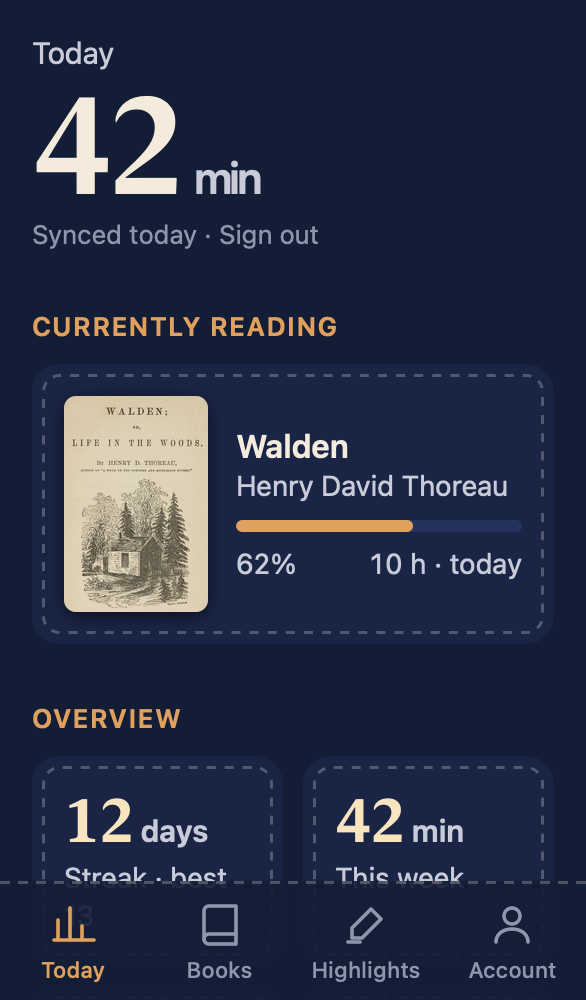
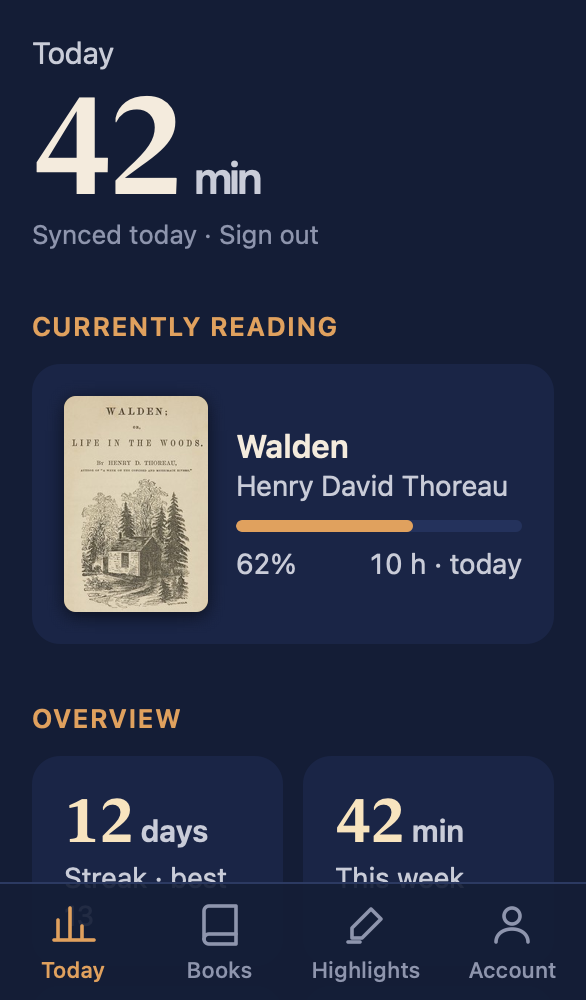
Web app: drop the dashed stitch edges; one set of threads everywhere
The dashed running stitch on cards, tiles, buttons and the tab bar is gone from
the web app, sign in, account and admin pages (the upload drop zone keeps its
dashed outline).

The calendar uses the widget threads everywhere: tan to cream cross stitch on
night blue cloth, brighter for longer reading. The web app and landing page
calendars drop the linen and wooden frame to match.

diff --git a/docs/index.html b/docs/index.html
@@ -46,7 +46,6 @@
   --tan: #E0A15E;
   --tan-hover: #EAB173;
   --cream: #F8E4BF;
-  --linen: #EDE3D0;
   --ink: #1C2A50;
 
   --s-25: 2px; --s-50: 4px; --s-75: 8px; --s-100: 12px; --s-200: 16px; --s-300: 24px;
@@ -200,9 +199,8 @@ p { margin: 0; text-wrap: pretty; }
 @media (min-width: 768px) { .h2 { font-size: 3rem; line-height: 1; } }
 .lead { margin-top: var(--s-200); color: var(--muted); font-size: 1.125rem; line-height: 1.75rem; max-width: 600px; }
 
-/* Sampler: the reading calendar, cross stitched on linen in a wooden frame */
-.frame { margin-top: var(--s-600); border-radius: 24px; padding: var(--s-75); background: #B9844F; box-shadow: 0 24px 64px rgba(0, 0, 0, 0.45), inset 0 0 0 1px rgba(255, 255, 255, 0.12); }
-.frame .linen { border-radius: 16px; overflow: hidden; background: var(--linen); }
+/* Sampler: the reading calendar, cross stitched on night blue cloth */
+.frame { margin-top: var(--s-600); border-radius: 24px; overflow: hidden; background: var(--cloth); box-shadow: 0 24px 64px rgba(0, 0, 0, 0.35); }
 .sampler { display: block; width: 100%; aspect-ratio: 57 / 29; }
 .sampler.no-gl { display: none; }
 @media (max-width: 639px) { .sampler { aspect-ratio: 31 / 31; } }
@@ -396,14 +394,14 @@ footer { padding: var(--s-600) 0 var(--s-700); color: var(--faint); font-size: .
       <div class="reveal">
         <span class="kicker">Your year</span>
         <h2 class="h2" id="y-title">Half a year of reading, one stitch per day</h2>
-        <p class="lead">Every day you open a book on your Kobo becomes a square on your calendar. The deeper the blue, the longer you read.</p>
+        <p class="lead">Every day you open a book on your Kobo becomes a square on your calendar. The brighter the thread, the longer you read.</p>
       </div>
       <div class="frame reveal">
         <div class="linen"><canvas class="sampler" id="sampler" role="img" aria-label="A 26 week reading calendar in cross stitch, with a 12 day streak"></canvas></div>
       </div>
       <div class="legend reveal">
         <span id="sampler-caption">Days read in the last 26 weeks</span>
-        <span class="swatches">Less <i style="background:#EDE3D0"></i><i style="background:#9CC1EE"></i><i style="background:#5B95E0"></i><i style="background:#2F6CC4"></i><i style="background:#1D4A8F"></i> More</span>
+        <span class="swatches">Less <i style="background:#1C2A50;box-shadow:inset 0 0 0 1px rgba(244,235,221,.2)"></i><i style="background:#8C6440"></i><i style="background:#C27F45"></i><i style="background:#E0A15E"></i><i style="background:#F6D9A8"></i> More</span>
       </div>
       <div class="tallies">
         <div class="tally patch reveal"><div class="n">42<small>min</small></div><p class="l">read today</p></div>
@@ -692,8 +690,8 @@ const hero = embroider(document.getElementById('cloth'), {
 });
 owl.addEventListener('load', () => hero && hero.relayout());
 
-// Sampler: the reading calendar in cross stitch on linen
-const LEVELS = ['#D9CDB6', '#9CC1EE', '#5B95E0', '#2F6CC4', '#1D4A8F'];
+// Sampler: the reading calendar in cross stitch, the same threads as the web app and the widgets
+const LEVELS = ['', '#8C6440', '#C27F45', '#E0A15E', '#F6D9A8'];
 const FLAME = ['...o...', '...oo..', '..ooo..', '.ooooo.', '.ooyoo.', 'ooyyyoo', 'ooyyyoo', '.ooyoo.', '..ooo..'];
 function calendar(weeks) {
   const rand = rng(42), days = [];
@@ -711,20 +709,20 @@ function buildSampler(ctx, { cols }) {
   const days = calendar(weeks);
   const read = days.filter(Boolean).length;
   document.getElementById('sampler-caption').textContent = `${read} days read in the last ${weeks} weeks`;
-  if (weeks === 26) stitchText(ctx, String(read), m, m, '#1C2A50');
+  if (weeks === 26) stitchText(ctx, String(read), m, m, '#F8E4BF');
   const streak = '12';
   const fx = cols - m - textWidth(streak) - 9;
   FLAME.forEach((row, y) => [...row].forEach((ch, x) => {
-    if (ch !== '.') plot(ctx, fx + x, m - 1 + y, ch === 'o' ? '#E07B2E' : '#F2B33D');
+    if (ch !== '.') plot(ctx, fx + x, m - 1 + y, ch === 'o' ? '#F0913A' : '#F2B33D');
   }));
-  stitchText(ctx, streak, cols - m - textWidth(streak), m, '#E07B2E');
+  stitchText(ctx, streak, cols - m - textWidth(streak), m, '#F0913A');
   const top = m + 7 + 3;
   days.forEach((lvl, i) => lvl && plot(ctx, m + 2 * Math.floor(i / 7), top + 2 * (i % 7), LEVELS[lvl]));
 }
 
 embroider(document.getElementById('sampler'), {
   cell: w => w / (w < 640 ? 31 : 57),
-  fabric: [237, 227, 208],
+  fabric: [28, 42, 80],
   build: buildSampler,
   sweep: 1.6,
 });

diff --git a/index.html b/index.html
@@ -23,10 +23,10 @@
     --ink: #1C2A50;
     --stitch: rgba(244, 235, 221, .26);
     --seq-0: #24325C;
-    --seq-1: #1D4A8F;
-    --seq-2: #2F6CC4;
-    --seq-3: #5B95E0;
-    --seq-4: #9CC1EE;
+    --seq-1: #8C6440;
+    --seq-2: #C27F45;
+    --seq-3: #E0A15E;
+    --seq-4: #F6D9A8;
     --grid: #2C3A62;
     --serif: ui-serif, "New York", Georgia, serif;
     --nav-h: 58px;
@@ -53,7 +53,7 @@
   nav.tabs {
     position: fixed; left: 0; right: 0; bottom: 0; z-index: 10;
     background: rgba(20,29,54,.92); -webkit-backdrop-filter: blur(16px); backdrop-filter: blur(16px);
-    border-top: 1.5px dashed var(--stitch);
+    border-top: 1px solid var(--grid);
     padding-bottom: env(safe-area-inset-bottom);
     display: flex; justify-content: center;
   }
@@ -209,16 +209,9 @@
   .file .x { flex: none; background: none; border: 0; color: var(--text-muted); font: inherit; font-size: 22px;
              line-height: 1; padding: 4px 6px; }
 
-  /* stitched details: a running stitch just inside cards and tiles, and on primary buttons */
-  .card::before, .tile::before, .quote::before, .group::before {
-    content: ""; position: absolute; inset: 5px; border: 1.5px dashed var(--stitch); border-radius: 9px; pointer-events: none; }
-  .done::after, .seg button.on::after, .chip.on::after { content: ""; position: absolute; inset: 3px; border-radius: inherit;
-    border: 1.5px dashed rgba(28, 42, 80, .45); pointer-events: none; }
-  .seg button, .chip { position: relative; }
-
-  /* the 26 week calendar, cross stitched on linen in a wooden frame */
-  .hoop { border-radius: 14px; padding: 6px; background: #B9844F; box-shadow: 0 10px 30px #0006, inset 0 0 0 1px #ffffff1f; }
-  .hoop .linen { border-radius: 8px; overflow: hidden; background: #EDE3D0; position: relative; }
+  /* the 26 week calendar, cross stitched on night blue cloth */
+  .hoop { border-radius: 14px; overflow: hidden; background: #1C2A50; }
+  .hoop .linen { position: relative; }
   .hoop canvas { display: block; width: 100%; }
   .hoop .no-gl { display: none; }
   .hoop + .legend i { border-radius: 2px; }
@@ -454,7 +447,7 @@ function viewHome() {
     <div class="card" id="bars"></div>
     <h2>26 weeks</h2>
     <div class="hoop" id="heat" style="position:relative"><div class="linen"></div></div>
-    <div class="legend">less <i style="background:#EDE3D0"></i>${STITCH_THREADS.slice(1).map(c => `<i style="background:${c}"></i>`).join("")} more</div>
+    <div class="legend">less <i style="background:#1C2A50"></i>${STITCH_THREADS.slice(1).map(c => `<i style="background:${c}"></i>`).join("")} more</div>
     ${pick ? `<h2>From your highlights</h2>
     <div class="quote"><q>${esc(pick.text)}</q>
       ${pick.note ? `<div class="note" style="margin-top:12px">${esc(pick.note)}</div>` : ""}
@@ -474,9 +467,10 @@ function mountHome() {
   sampler(document.getElementById("heat"), DATA.stats.days);
 }
 
-// The 26 weeks as cross stitch on linen, one stitch per day, deeper blue for longer reading.
+// The 26 weeks as cross stitch on night blue cloth, one stitch per day: tan to cream, brighter for longer reading.
+// The same threads as the widgets and the landing page.
 // One canvas lives across renders: WebGL contexts are costly and browsers cap how many a page holds.
-const STITCH_THREADS = ["", "#9CC1EE", "#5B95E0", "#2F6CC4", "#1D4A8F"];
+const STITCH_THREADS = ["", "#8C6440", "#C27F45", "#E0A15E", "#F6D9A8"];
 const readLevel = s => s < 60 ? 0 : s < 900 ? 1 : s < 1800 ? 2 : s < 3600 ? 3 : 4;
 const stitch = {canvas: document.createElement("canvas"), days: [], lead: 0, weeks: 26, margin: 1};
 let stitchReady = null;
@@ -494,7 +488,7 @@ async function sampler(hoop, days) {
   Object.assign(stitch, {days, lead, weeks: Math.ceil((lead + days.length) / 7)});
   const cols = stitch.weeks + 2 * stitch.margin, rows = 7 + 2 * stitch.margin;
   stitchReady ||= import("/embroidery.js").then(({embroider, plot}) => embroider(stitch.canvas, {
-    cell: w => w / (stitch.weeks + 2 * stitch.margin), fabric: [237, 227, 208], sweep: 1.4,
+    cell: w => w / (stitch.weeks + 2 * stitch.margin), fabric: [28, 42, 80], sweep: 1.4,
     build: ctx => buildSampler(ctx, plot)})).catch(() => null);
   const api = await stitchReady;
   if (!hoop.isConnected) return;

diff --git a/admin.html b/admin.html
@@ -21,7 +21,6 @@
     --text-muted: #8E95AD;
     --accent: #E0A15E;
     --ink: #1C2A50;
-    --stitch: rgba(244, 235, 221, .26);
     --danger: #F08A7E;
     --ok: #9BD3A6;
     --grid: #2C3A62;
@@ -55,7 +54,6 @@
   .acts { display: flex; flex-wrap: wrap; gap: 6px; margin-top: 12px; }
   .acts button, .acts button:not(.ghost):not(.danger) { background: var(--surface-2); color: var(--text-primary); font-size: 14px; font-weight: 500; padding: 8px 12px; }
   .acts button.danger { background: var(--surface-2); color: var(--danger); padding: 8px 12px; }
-  .acts button::after { display: none; }
   .msg { margin-top: 12px; font-size: 15px; color: var(--danger); }
   .user .t { font-weight: 600; font-size: 17px; }
   .user .m { color: var(--text-muted); font-size: 13px; margin-top: 2px; }
@@ -72,15 +70,10 @@
   .devs div { display: flex; justify-content: space-between; gap: 8px; padding: 4px 0; }
   .devs button, .devs button:not(.ghost):not(.danger) { background: none; color: var(--danger); padding: 0; font-size: 14px; font-weight: 500; }
 
-  /* stitched details */
+  /* landing page details: serif headings, tan headings and primary buttons */
   h1 { font-family: var(--serif); font-weight: 600; letter-spacing: -.01em; }
   h2 { color: var(--accent); }
-  .card { position: relative; }
-  .card::before { content: ""; position: absolute; inset: 5px; border: 1.5px dashed var(--stitch);
-                  border-radius: 9px; pointer-events: none; }
-  button:not(.ghost):not(.danger) { position: relative; background: var(--accent); color: var(--ink); }
-  button:not(.ghost):not(.danger)::after { content: ""; position: absolute; inset: 3px; border-radius: inherit;
-                  border: 1.5px dashed rgba(28, 42, 80, .45); pointer-events: none; }
+  button:not(.ghost):not(.danger) { background: var(--accent); color: var(--ink); }
 </style>
 </head>
 <body>

diff --git a/login.html b/login.html
@@ -21,7 +21,6 @@
     --text-muted: #8E95AD;
     --accent: #E0A15E;
     --ink: #1C2A50;
-    --stitch: rgba(244, 235, 221, .26);
     --danger: #F08A7E;
     --ok: #9BD3A6;
     --grid: #2C3A62;
@@ -38,7 +37,6 @@
   .mark { position: relative; width: 72px; height: 72px; border-radius: 50%; padding: 4px; background: var(--accent);
           margin-bottom: 20px; }
   .mark img { width: 100%; height: 100%; border-radius: 50%; display: block; object-fit: cover; }
-  .mark::after { content: ""; position: absolute; inset: 7px; border-radius: 50%; border: 1.5px dashed rgba(248, 228, 191, .75); }
   h1 { font-size: 30px; font-weight: 700; letter-spacing: -.01em; margin: 0 0 6px; }
   p { color: var(--text-secondary); margin: 0 0 28px; }
   label { display: block; color: var(--text-muted); font-size: 13px; font-weight: 600;
@@ -53,15 +51,10 @@
   h1 { font-size: 36px; }
   .error.on { display: block; }
 
-  /* stitched details */
+  /* landing page details: serif headings, tan headings and primary buttons */
   h1 { font-family: var(--serif); font-weight: 600; letter-spacing: -.01em; }
   h2 { color: var(--accent); }
-  .card { position: relative; }
-  .card::before { content: ""; position: absolute; inset: 5px; border: 1.5px dashed var(--stitch);
-                  border-radius: 9px; pointer-events: none; }
-  button:not(.ghost):not(.danger) { position: relative; background: var(--accent); color: var(--ink); }
-  button:not(.ghost):not(.danger)::after { content: ""; position: absolute; inset: 3px; border-radius: inherit;
-                  border: 1.5px dashed rgba(28, 42, 80, .45); pointer-events: none; }
+  button:not(.ghost):not(.danger) { background: var(--accent); color: var(--ink); }
 </style>
 </head>
 <body>

diff --git a/account.html b/account.html
@@ -21,7 +21,6 @@
     --text-muted: #8E95AD;
     --accent: #E0A15E;
     --ink: #1C2A50;
-    --stitch: rgba(244, 235, 221, .26);
     --danger: #F08A7E;
     --ok: #9BD3A6;
     --grid: #2C3A62;
@@ -75,15 +74,10 @@
   .links { display: flex; gap: 18px; margin-top: 30px; }
   .empty { color: var(--text-muted); font-size: 15px; }
 
-  /* stitched details */
+  /* landing page details: serif headings, tan headings and primary buttons */
   h1 { font-family: var(--serif); font-weight: 600; letter-spacing: -.01em; }
   h2 { color: var(--accent); }
-  .card { position: relative; }
-  .card::before { content: ""; position: absolute; inset: 5px; border: 1.5px dashed var(--stitch);
-                  border-radius: 9px; pointer-events: none; }
-  button:not(.ghost):not(.danger) { position: relative; background: var(--accent); color: var(--ink); }
-  button:not(.ghost):not(.danger)::after { content: ""; position: absolute; inset: 3px; border-radius: inherit;
-                  border: 1.5px dashed rgba(28, 42, 80, .45); pointer-events: none; }
+  button:not(.ghost):not(.danger) { background: var(--accent); color: var(--ink); }
 </style>
 </head>
 <body>
